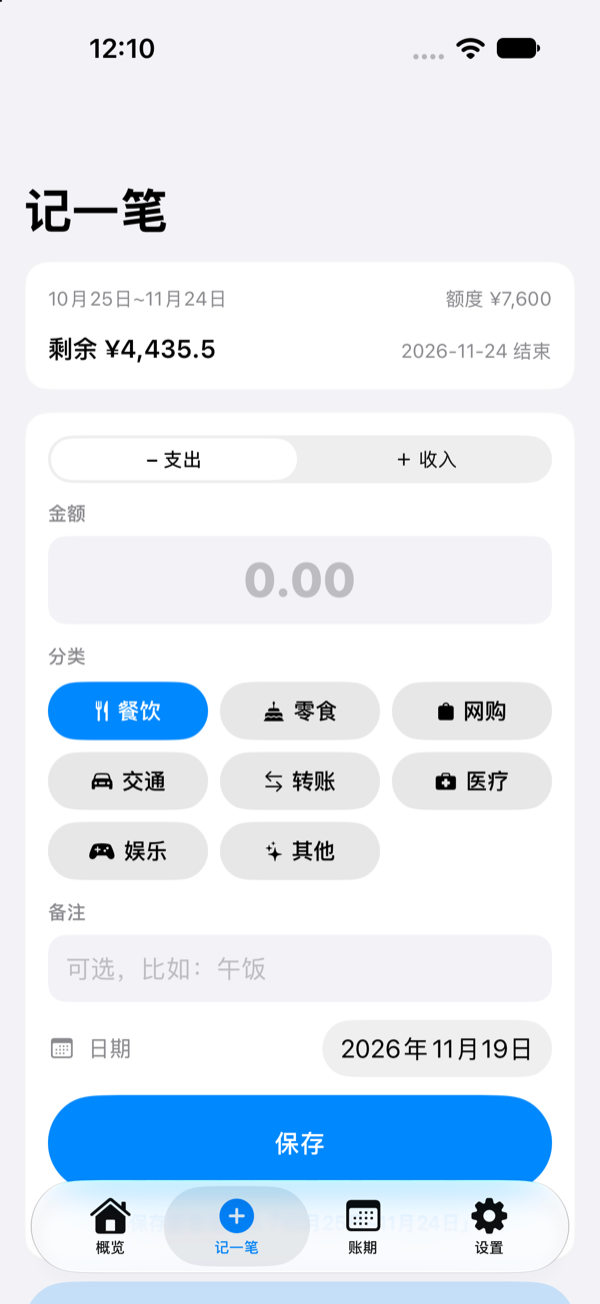
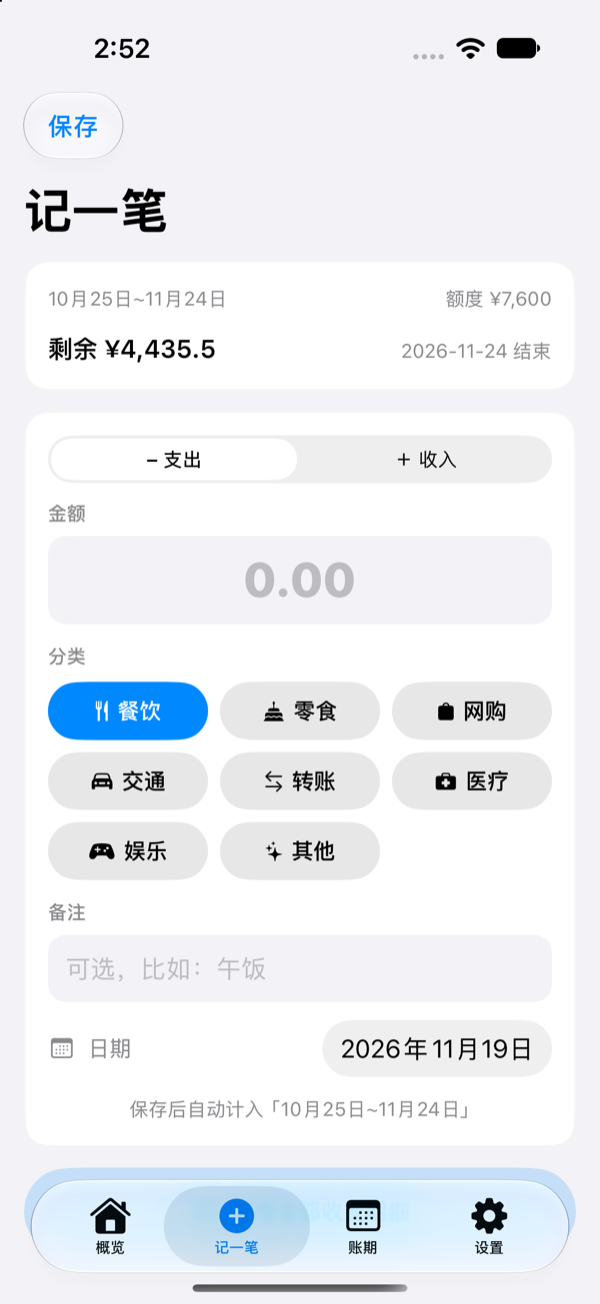
feat: 保存按钮移至导航栏右上角，保存后停留记一笔页

Changed region(s): [[0.03, 0.8282, 0.96, 1.0], [0.15, 0.0307, 0.27, 0.0613], [0.09, 0.092, 0.15, 0.1227]]

diff --git a/Budget-ios/Views/AddEntryView.swift b/Budget-ios/Views/AddEntryView.swift
@@ -9,6 +9,7 @@ struct AddEntryView: View {
     @State private var amountText = ""
     @State private var note = ""
     @State private var date = Date()
+    @FocusState private var amountFocused: Bool
     @ScaledMetric(relativeTo: .largeTitle) private var amountFontSize: CGFloat = 32
 
     private var selectedCat: String {
@@ -32,6 +33,17 @@ struct AddEntryView: View {
         .background(Color.appGroupedBackground)
         .dismissKeyboardOnScroll()
         .navigationTitle("记一笔")
+        .toolbar {
+            ToolbarItem(placement: .confirmationAction) {
+                saveButton
+            }
+        }
+    }
+
+    private var saveButton: some View {
+        Button("保存", action: save)
+            .fontWeight(.semibold)
+            .keyboardShortcut(.defaultAction)
     }
 
     // MARK: - 当前账期条
@@ -77,6 +89,7 @@ struct AddEntryView: View {
                     .foregroundStyle(.secondary)
                 TextField("0.00", text: $amountText)
                     .decimalPadKeyboard()
+                    .focused($amountFocused)
                     .multilineTextAlignment(.center)
                     .font(.system(size: amountFontSize, weight: .heavy, design: .rounded))
                     .monospacedDigit()
@@ -120,15 +133,6 @@ struct AddEntryView: View {
                 DatePicker("日期", selection: $date, displayedComponents: .date)
                     .labelsHidden()
             }
-
-            Button(action: save) {
-                Text("保存")
-                    .font(.headline)
-                    .frame(maxWidth: .infinity)
-                    .padding(.vertical, 5)
-            }
-            .buttonStyle(.borderedProminent)
-            .controlSize(.large)
 
             Text(hintText)
                 .font(.footnote)
@@ -223,7 +227,6 @@ struct AddEntryView: View {
 
         amountText = ""
         note = ""
-        date = Date()
-        store.selectedTab = .home
+        amountFocused = false
     }
 }
